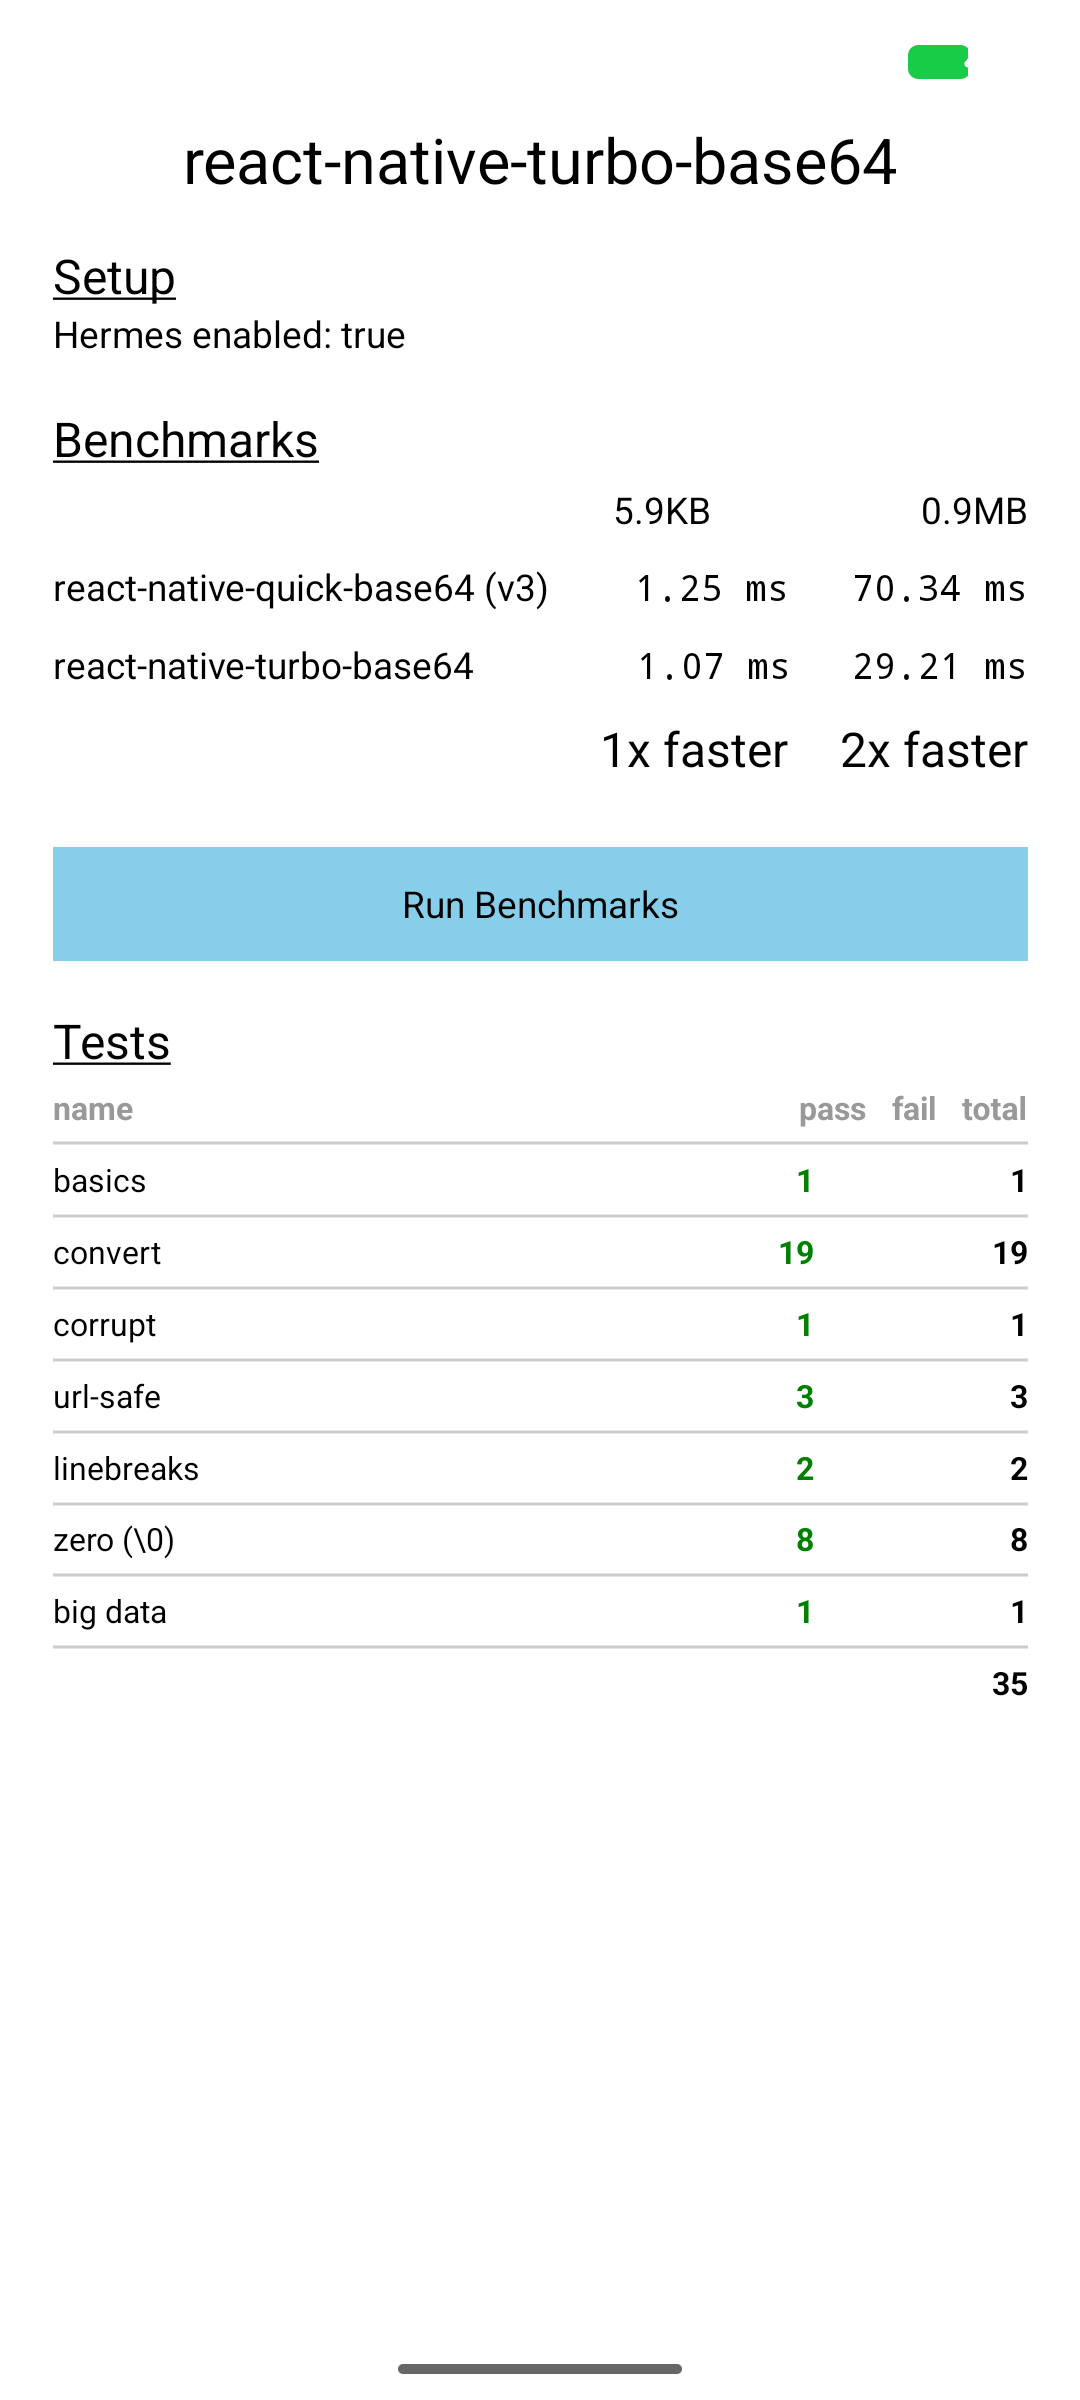
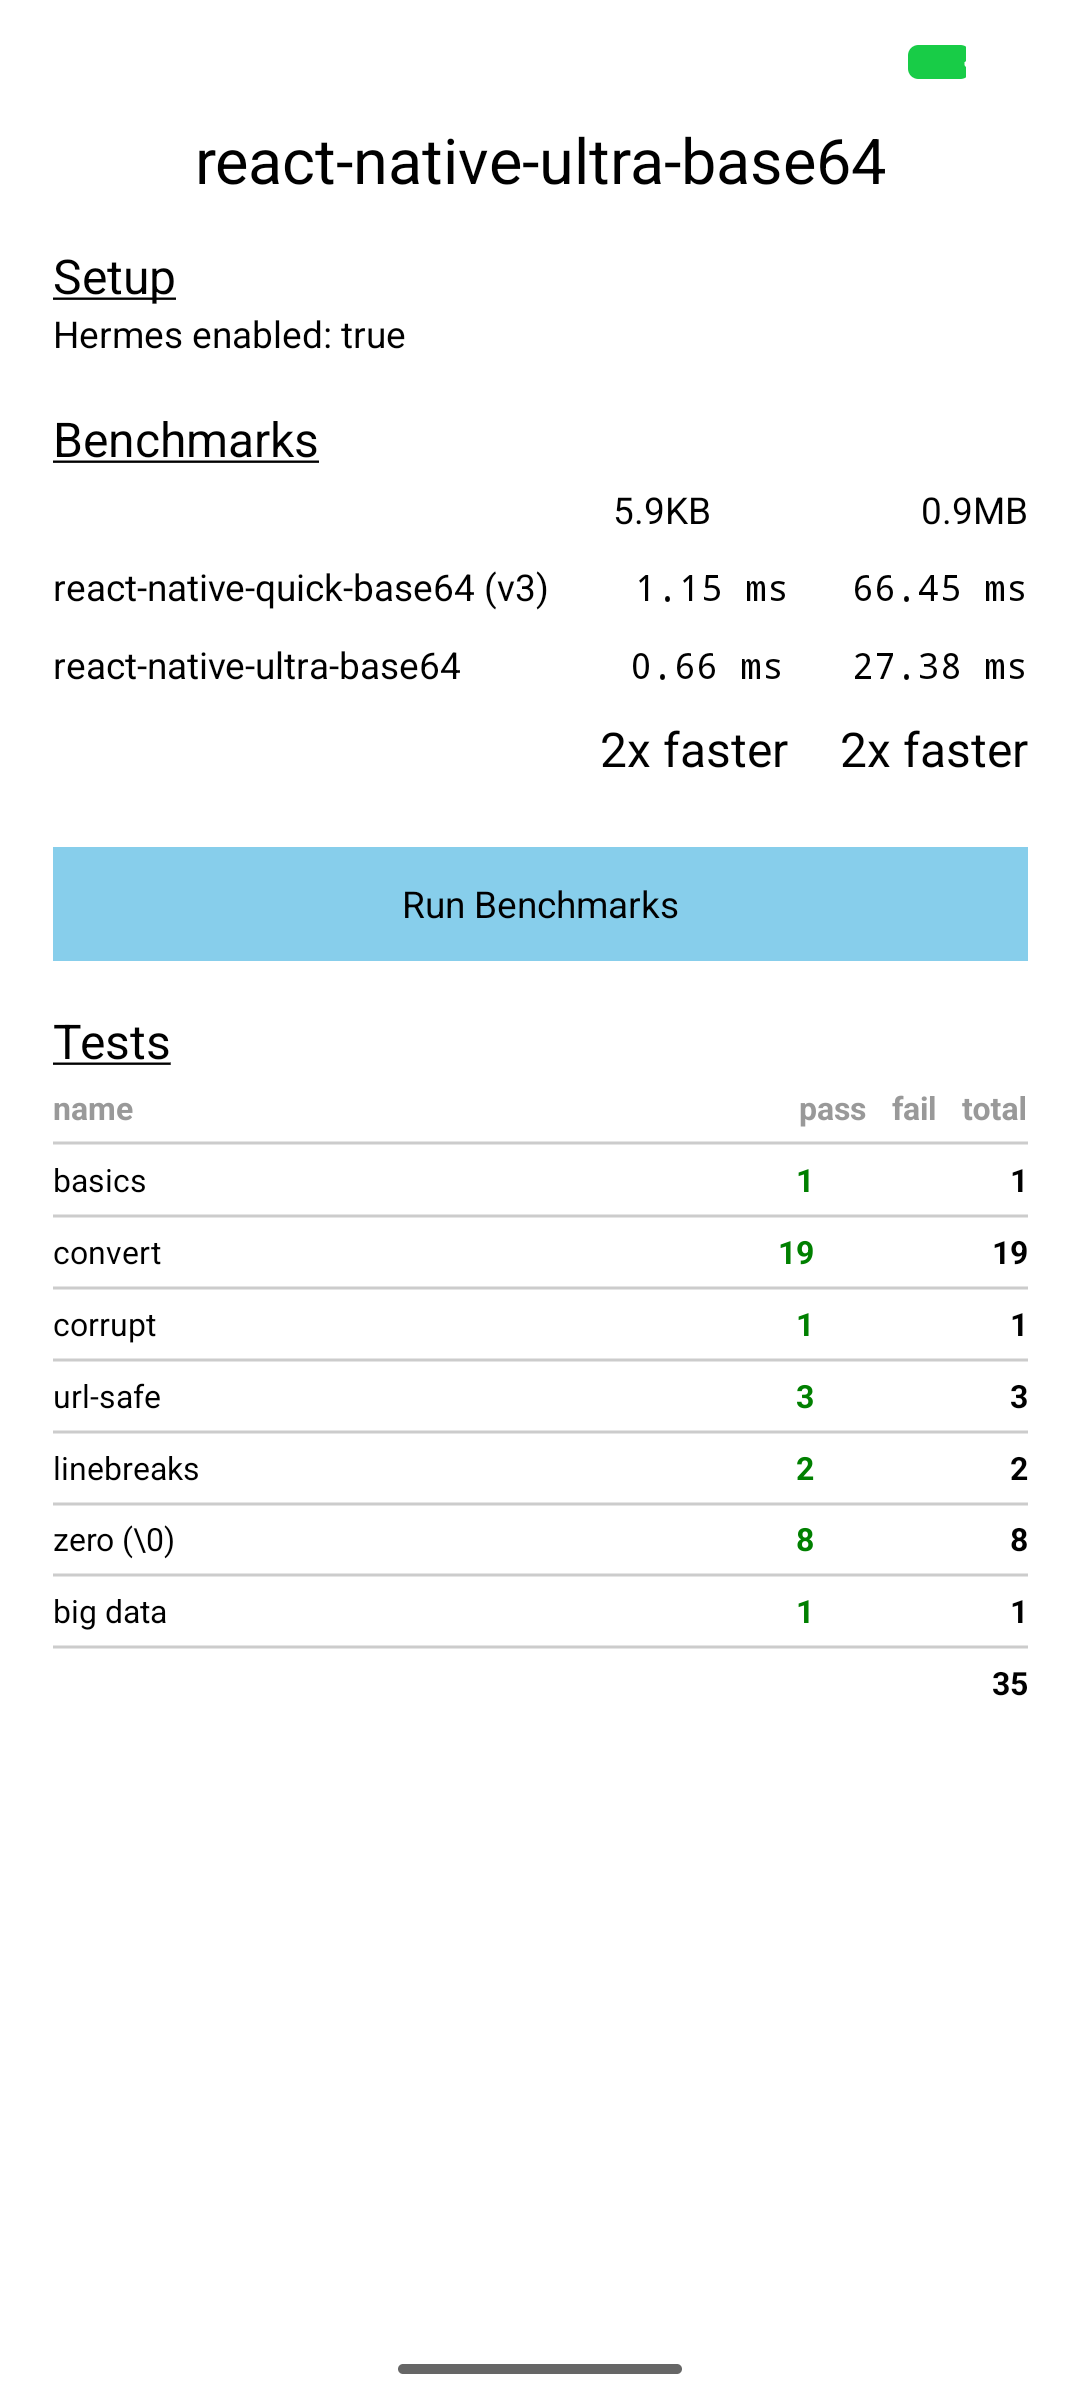
init

diff --git a/android/src/main/java/com/ultrabase64/UltraBase64Module.kt b/android/src/main/java/com/ultrabase64/UltraBase64Module.kt
@@ -1,4 +1,4 @@
-package com.turbobase64
+package com.ultrabase64
 
 import android.util.Log
 import com.facebook.react.bridge.ReactApplicationContext
@@ -6,7 +6,7 @@ import com.facebook.react.bridge.ReactContextBaseJavaModule
 import com.facebook.react.bridge.ReactMethod
 import com.facebook.react.common.annotations.FrameworkAPI
 
-class TurboBase64Module(private val reactContext: ReactApplicationContext) :
+class UltraBase64Module(private val reactContext: ReactApplicationContext) :
   ReactContextBaseJavaModule(reactContext) {
 
     override fun getName(): String {
@@ -14,9 +14,9 @@ class TurboBase64Module(private val reactContext: ReactApplicationContext) :
     }
 
     companion object {
-        const val NAME = "RNTurboBase64"
+        const val NAME = "RNUltraBase64"
         init {
-            System.loadLibrary("react-native-turbo-base64")
+            System.loadLibrary("react-native-ultra-base64")
         }
 
         @OptIn(FrameworkAPI::class)
@@ -27,7 +27,7 @@ class TurboBase64Module(private val reactContext: ReactApplicationContext) :
     @OptIn(FrameworkAPI::class)
     @ReactMethod(isBlockingSynchronousMethod = true)
     fun install(): Boolean {
-        Log.d("react-native-turbo-base64", "install() called")
+        Log.d("react-native-ultra-base64", "install() called")
         nativeInstall(
             reactContext.javaScriptContextHolder!!.get(),
         )

diff --git a/example/src/Benchmarks.tsx b/example/src/Benchmarks.tsx
@@ -1,7 +1,7 @@
 /* global performance */
 import { useState } from 'react'
 import { StyleSheet, View, Text, Pressable, Platform } from 'react-native'
-import { fromByteArray as fromByteArrayTurbo, toByteArray as toByteArrayTurbo } from 'react-native-turbo-base64'
+import { fromByteArray as fromByteArrayTurbo, toByteArray as toByteArrayTurbo } from 'react-native-ultra-base64'
 import { toByteArray, fromByteArray } from 'react-native-quick-base64'
 // 5.3 KB
 import { data as smallData } from './image.json'
@@ -101,7 +101,7 @@ const Benchmarks = () => {
       </View>
 
       <View style={styles.lib}>
-        <Text style={[styles.heading, {marginRight:30}]}>{'react-native-turbo-base64'}</Text>
+        <Text style={[styles.heading, {marginRight:30}]}>{'react-native-ultra-base64'}</Text>
         <Text style={styles.result}>
           {turbo64SmallResult > 0 ? `${round(turbo64SmallResult, 2)} ms` : ''}
         </Text>

diff --git a/src/index.tsx b/src/index.tsx
@@ -6,13 +6,13 @@ declare global {
 }
 
 
-let RNTurboBase64Initialized = !!globalThis.encodeBase64FromArrayBuffer;
+let RNUltraBase64Initialized = !!globalThis.encodeBase64FromArrayBuffer;
 
-if (!RNTurboBase64Initialized) {
-  if (NativeModules.RNTurboBase64) {
-    NativeModules.RNTurboBase64.install();
-    RNTurboBase64Initialized = !!globalThis.encodeBase64FromArrayBuffer;
-    console.log('✅ react-native-turbo-base64 initialized successfully')
+if (!RNUltraBase64Initialized) {
+  if (NativeModules.RNUltraBase64) {
+    NativeModules.RNUltraBase64.install();
+    RNUltraBase64Initialized = !!globalThis.encodeBase64FromArrayBuffer;
+    console.log('✅ react-native-ultra-base64 initialized successfully')
   }
 }
 

diff --git a/android/src/main/java/com/ultrabase64/UltraBase64Package.kt b/android/src/main/java/com/ultrabase64/UltraBase64Package.kt
@@ -1,13 +1,13 @@
-package com.turbobase64
+package com.ultrabase64
 
 import com.facebook.react.ReactPackage
 import com.facebook.react.bridge.NativeModule
 import com.facebook.react.bridge.ReactApplicationContext
 import com.facebook.react.uimanager.ViewManager
 
-class TurboBase64Package : ReactPackage {
+class UltraBase64Package : ReactPackage {
   override fun createNativeModules(reactContext: ReactApplicationContext): List<NativeModule> {
-    return listOf(TurboBase64Module(reactContext))
+    return listOf(UltraBase64Module(reactContext))
     }
 
   override fun createViewManagers(reactContext: ReactApplicationContext): List<ViewManager<*, *>> {

diff --git a/example/android/app/src/main/java/ultrabase64/example/MainActivity.kt b/example/android/app/src/main/java/ultrabase64/example/MainActivity.kt
@@ -1,4 +1,4 @@
-package turbobase64.example
+package ultrabase64.example
 
 import com.facebook.react.ReactActivity
 import com.facebook.react.ReactActivityDelegate
@@ -11,7 +11,7 @@ class MainActivity : ReactActivity() {
    * Returns the name of the main component registered from JavaScript. This is used to schedule
    * rendering of the component.
    */
-  override fun getMainComponentName(): String = "TurboBase64Example"
+  override fun getMainComponentName(): String = "UltraBase64Example"
 
   /**
    * Returns the instance of the [ReactActivityDelegate]. We use [DefaultReactActivityDelegate]

diff --git a/example/src/App.tsx b/example/src/App.tsx
@@ -8,7 +8,7 @@ const isHermes = () => !!global.HermesInternal
 const App = () => {
   return (
     <SafeAreaView style={styles.container}>
-      <Text style={styles.title}>react-native-turbo-base64</Text>
+      <Text style={styles.title}>react-native-ultra-base64</Text>
       <ScrollView style={styles.contentView}>
         <View style={styles.section}>
           <Text style={styles.sectionText}>Setup</Text>

diff --git a/example/ios/UltraBase64Example/AppDelegate.swift b/example/ios/UltraBase64Example/AppDelegate.swift
@@ -24,7 +24,7 @@ class AppDelegate: UIResponder, UIApplicationDelegate {
     window = UIWindow(frame: UIScreen.main.bounds)
 
     factory.startReactNative(
-      withModuleName: "TurboBase64Example",
+      withModuleName: "UltraBase64Example",
       in: window,
       launchOptions: launchOptions
     )

diff --git a/example/src/tests/corrupt.ts b/example/src/tests/corrupt.ts
@@ -1,5 +1,5 @@
 import { expect } from 'chai'
-import { toByteArray } from 'react-native-turbo-base64'
+import { toByteArray } from 'react-native-ultra-base64'
 import { describe, it } from '../MochaRNAdapter'
 
 // from base64-js library's test suite

diff --git a/example/src/tests/linebreaks.ts b/example/src/tests/linebreaks.ts
@@ -1,5 +1,5 @@
 import { expect } from 'chai'
-import { toByteArray } from 'react-native-turbo-base64'
+import { toByteArray } from 'react-native-ultra-base64'
 import { describe, it } from '../MochaRNAdapter'
 import { mapArr } from './util'
 

diff --git a/example/src/tests/url-safe.ts b/example/src/tests/url-safe.ts
@@ -4,7 +4,7 @@ import {
   fromByteArray,
   toByteArray,
   trimBase64Padding
-} from 'react-native-turbo-base64'
+} from 'react-native-ultra-base64'
 import { describe, it } from '../MochaRNAdapter'
 
 // from base64-js library's test suite

diff --git a/example/src/tests/basics.ts b/example/src/tests/basics.ts
@@ -1,5 +1,5 @@
 import { expect } from 'chai'
-import {  getNative } from 'react-native-turbo-base64'
+import {  getNative } from 'react-native-ultra-base64'
 import { describe, it } from '../MochaRNAdapter'
 
 describe('basics', () => {

diff --git a/example/src/tests/convert.ts b/example/src/tests/convert.ts
@@ -3,7 +3,7 @@ import {
   byteLength,
   fromByteArray,
   toByteArray
-} from 'react-native-turbo-base64'
+} from 'react-native-ultra-base64'
 import { describe, it } from '../MochaRNAdapter'
 import { mapArr, mapStr } from './util'
 
